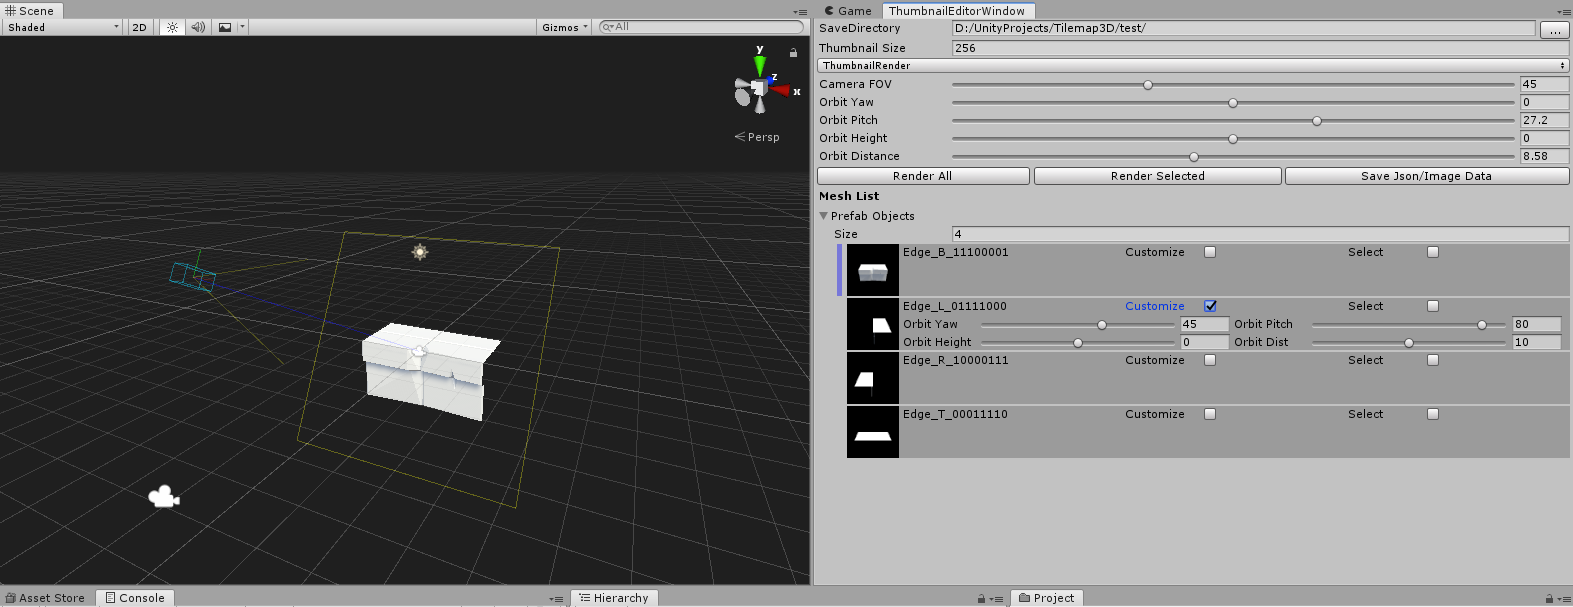
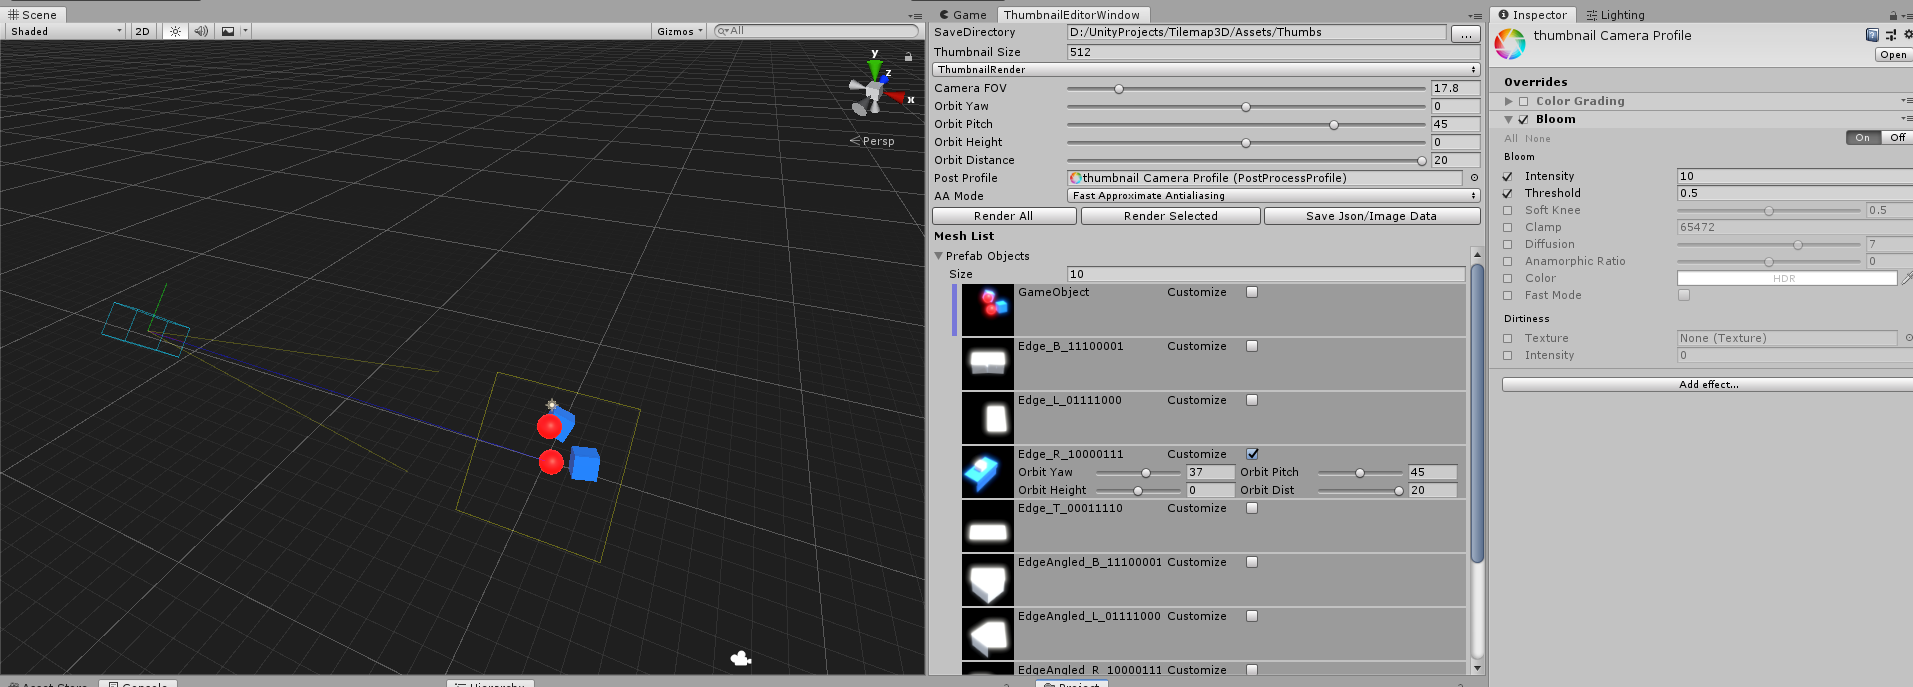
Added Post Processing support and Antialiasing

diff --git a/Editor/ThumbnailEditorWindow.cs b/Editor/ThumbnailEditorWindow.cs
@@ -4,6 +4,7 @@ using System.IO;
 using System.Linq;
 using UnityEngine;
 using UnityEditor;
+using UnityEngine.Rendering.PostProcessing;
 using Debug = UnityEngine.Debug;
 using Object = UnityEngine.Object;
 
@@ -28,9 +29,13 @@ public partial class ThumbnailEditorWindow : EditorWindow
         [Range(.1f, 130f)]
         public float cameraFOV;
         public int renderLayer;
+
+        public PostProcessProfile postProfile;
+        public PostProcessLayer.Antialiasing AAMode;
+
     }
     public ThumbnailEditorSettings settings;
-
+    
     public List<PrefabObject> _prefabObjects = new List<PrefabObject>();
 
     private PrefabObject activeObject;
@@ -70,6 +75,9 @@ public partial class ThumbnailEditorWindow : EditorWindow
         EditorGUILayout.PropertyField(settingsProp.FindPropertyRelative("orbitPitch"));
         EditorGUILayout.PropertyField(settingsProp.FindPropertyRelative("orbitHeight"));
         EditorGUILayout.PropertyField(settingsProp.FindPropertyRelative("orbitDistance"));
+
+        EditorGUILayout.PropertyField(settingsProp.FindPropertyRelative("postProfile"));
+        EditorGUILayout.PropertyField(settingsProp.FindPropertyRelative("AAMode"));
 
         //var settingsProp = editorWindowObject.FindProperty("settings");
         //EditorGUILayout.PropertyField(settingsProp, true);
@@ -239,7 +247,16 @@ public partial class ThumbnailEditorWindow : EditorWindow
                 var rt = new RenderTexture(settings.thumbnailSize, settings.thumbnailSize, 32) {antiAliasing = 8};
 
                 var go = new GameObject("thumbnail Camera");
+                go.layer = settings.renderLayer;
                 returnCam = go.AddComponent<Camera>();
+
+                var postLayer = go.AddComponent<PostProcessLayer>();
+                postLayer.antialiasingMode = settings.AAMode;
+                postLayer.volumeLayer = 1 << settings.renderLayer;
+                var postVolume = go.AddComponent<PostProcessVolume>();
+                postVolume.isGlobal = true;
+                postVolume.profile = settings.postProfile;
+
                 returnCam.transform.position = Vector3.zero;
                 returnCam.transform.rotation = Quaternion.identity;
                 returnCam.transform.localScale = Vector3.one;
@@ -427,28 +444,29 @@ public partial class ThumbnailEditorWindow : EditorWindow
 
     public void RecursiveDrawGameObject(Matrix4x4 rootWorldToLocalTransform, GameObject target, int renderLayer, Camera cam)
     {
+
         foreach (Transform child in target.transform)
         {
-            var mesh = child.GetComponent<MeshFilter>()?.sharedMesh;
-            var mats = child.GetComponent<MeshRenderer>()?.sharedMaterials;
-
-            if (mesh == null || mats == null)
-                continue;
-
-            var relativeXform = rootWorldToLocalTransform * child.localToWorldMatrix;
-
-            for (var i = 0; i < mats.Length && i < mesh.subMeshCount; i++)
-            {
-                var material = mats[i];
-                if (material != null && i < mesh.subMeshCount)
-                    Graphics.DrawMesh(mesh, relativeXform, material, renderLayer, cam);
-            }
-
-            //Graphics.DrawMesh(mesh, transform.localToWorldMatrix * relativeXform, mats, 0);
-
-            if (child.childCount != 0)
-                RecursiveDrawGameObject(rootWorldToLocalTransform, child.gameObject, renderLayer, cam);
+            RecursiveDrawGameObject(rootWorldToLocalTransform, child.gameObject, renderLayer, cam);
         }
+        var mf = target.GetComponent<MeshFilter>();
+        var mr = target.GetComponent<MeshRenderer>();
+
+        if (mf == null || mr == null)
+            return;
+
+        var mesh = mf.sharedMesh;
+        var mats = mr.sharedMaterials;
+
+        var relativeXform = rootWorldToLocalTransform * target.transform.localToWorldMatrix;
+
+        for (var i = 0; i < mats.Length && i < mesh.subMeshCount; i++)
+        {
+            var material = mats[i];
+            if (material != null && i < mesh.subMeshCount)
+                Graphics.DrawMesh(mesh, relativeXform, material, renderLayer, cam);
+        }
+
     }
 
 }
